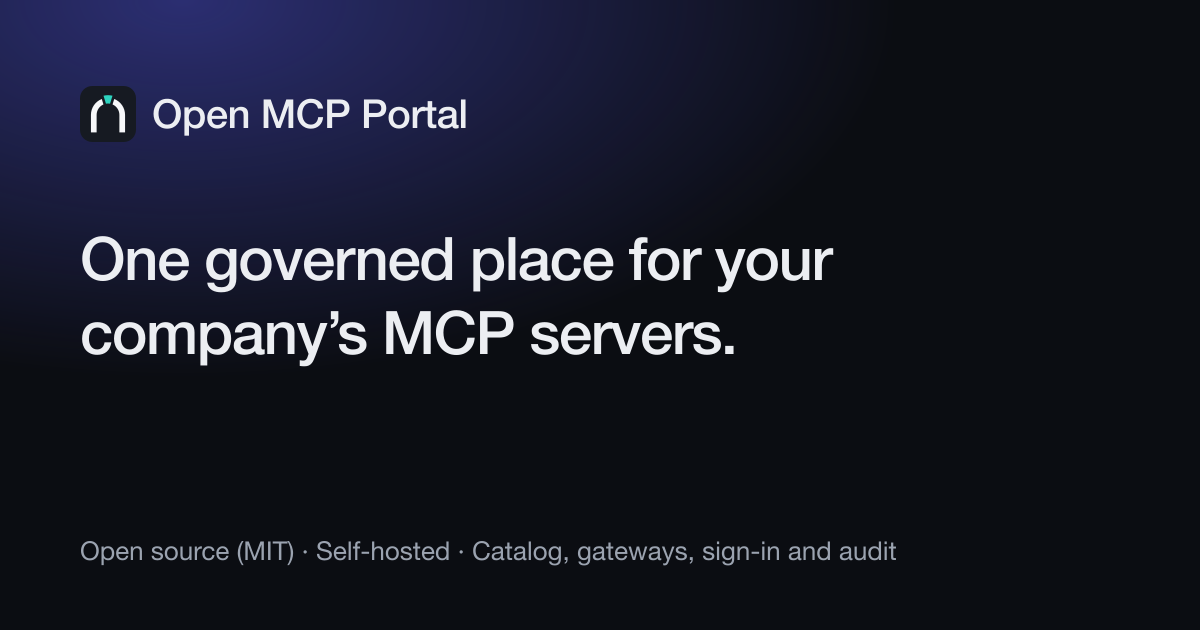
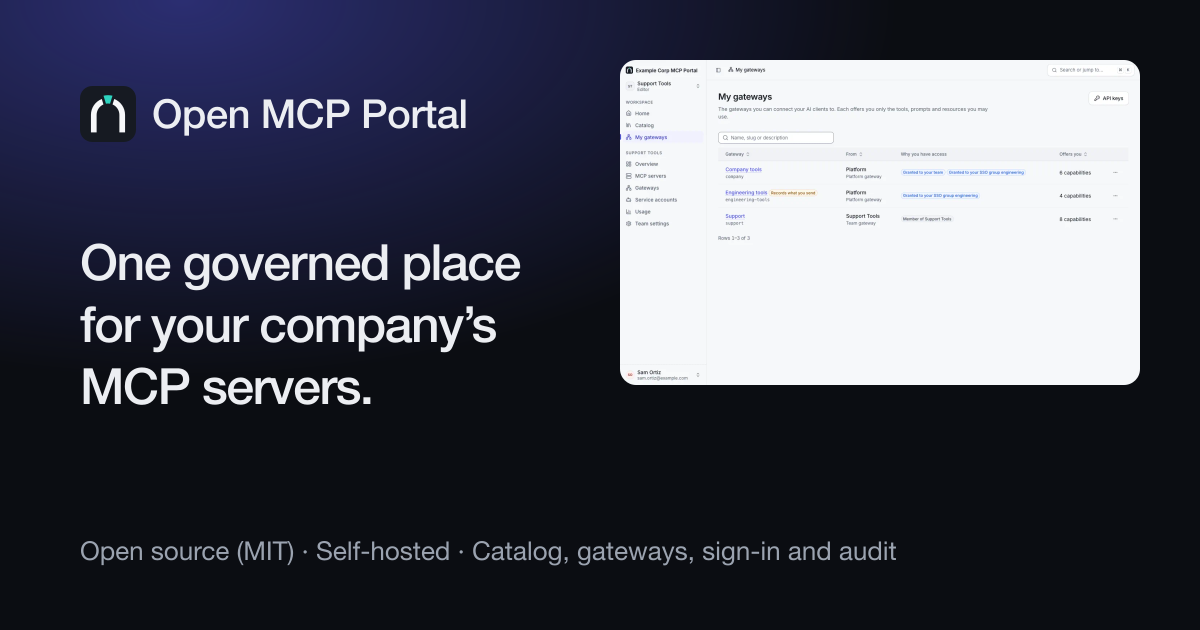
Screenshots, OG card and an up-to-date project status
- All 8 slots filled from the Example Corp capture (omp-assets, product commit d039647); four use a
  docs file or the site's own connect-confirm-more-scopes through "file"; alt text and captions
  checked against the images. npm run og redrew og.png with the my-gateways shot.
- Project status card follows docs/status.md: Claude Code and pi over OAuth and GitHub's hosted MCP
  server end to end are verified; not yet a real Google or Microsoft provider, CI on GitHub's runners
  or a real-cluster smoke test.
- Renamed prefixes: omp_ and omp_sa_ keys, omp:// resources (were omcp_). The example host is
  mcp.example.com, as in the screenshots and the docs. Refresh-token reuse wording matches the
  product (reuse after 30 seconds ends the connection).

Changed region(s): [[0.0617, 0.0905, 0.9558, 0.6635]]

diff --git a/app/page.tsx b/app/page.tsx
@@ -416,7 +416,7 @@ function Features() {
               </>,
               <>
                 <Strong>No clashes:</Strong> tools are exposed as <code>server__tool</code>, and resources under{" "}
-                <code>omcp://server/</code>, so servers can use the same names.
+                <code>omp://server/</code>, so servers can use the same names.
               </>,
               <>
                 <Strong>Checked on every call:</Strong> removing someone from a team or a grant, turning a gateway off
@@ -613,7 +613,7 @@ const cursorSnippet = `{
 }`;
 
 const keySnippet = `curl -X POST ${gatewayUrl} \\
-  -H "Authorization: Bearer omcp_..." \\
+  -H "Authorization: Bearer omp_..." \\
   -H "Content-Type: application/json" \\
   -H "Accept: application/json, text/event-stream" \\
   -d '{"jsonrpc":"2.0","id":1,"method":"tools/list"}'`;
@@ -636,7 +636,7 @@ function Connect() {
           <div className="min-w-0">
             <CodeBlock label="Scripts and agents: a personal or service account key">{keySnippet}</CodeBlock>
             <p className="mt-3 text-sm text-brand-muted">
-              Personal keys start with <code>omcp_</code>, service account keys with <code>omcp_sa_</code>. Both are
+              Personal keys start with <code>omp_</code>, service account keys with <code>omp_sa_</code>. Both are
               shown once. <TextLink href={site.connectUrl}>Connecting clients</TextLink>
             </p>
           </div>
@@ -648,7 +648,7 @@ function Connect() {
               items={[
                 <>It acts as you, on that gateway only: its token is refused by every other gateway.</>,
                 <>It sees the tools you may use there now. Lose access and the next request is refused.</>,
-                <>Access tokens last an hour; the app refreshes them, and signs in again after 30 days unused. A refresh token used twice ends the connection.</>,
+                <>Access tokens last an hour; the app refreshes them, and signs in again after 30 days unused. A refresh token reused after 30 seconds ends the connection.</>,
                 <>Claude (claude.ai and Claude Desktop) connects as a custom connector; for claude.ai the portal must be reachable from the internet.</>,
               ]}
             />
@@ -964,10 +964,14 @@ function OpenSource() {
             </h3>
             <div className="mt-4 space-y-3 leading-relaxed text-brand-muted">
               <p>
-                Everything on this page is built and tested against real PostgreSQL, with fake MCP servers and a fake
-                OAuth provider. It is pre-1.0 software: sign-in with real MCP clients, delegated credentials with a real
-                provider and the GitHub sign-in end to end still need their first full runs, so pilot it before you
-                depend on it.
+                Everything on this page is built and tested against real PostgreSQL. Real clients work: Claude Code and
+                pi have signed in to gateways over OAuth and called tools, and GitHub&apos;s hosted MCP server has run
+                end to end with each person&apos;s own GitHub sign-in.
+              </p>
+              <p>
+                It is pre-1.0 software and hasn&apos;t run in production. Not tried yet: delegated credentials with a
+                real Google or Microsoft provider (only a fake one so far), the CI workflow on GitHub&apos;s runners, and
+                a smoke test on a real Kubernetes cluster. Pilot it before you depend on it.
               </p>
               <p>
                 Not built yet: streaming responses through to the client (calls are buffered, up to 1 MiB), resource

diff --git a/lib/site.ts b/lib/site.ts
@@ -29,8 +29,9 @@ export const site = {
   identityUrl: `${tree}/docs/upstream-identity.md`,
   mailExampleUrl: `${tree}/examples/mail-mcp/README.md`,
   websiteRepoUrl: "https://github.com/ncecere/omp-website",
-  // The example portal used in every snippet on the page.
-  exampleHost: "portal.example.com",
+  // The example portal used in every snippet on the page: the host the screenshots show
+  // (the Example Corp capture instance in omp-assets, and the docs' examples).
+  exampleHost: "mcp.example.com",
   // HTTP header names the portal sends to MCP servers. They are protocol
   // names, unchanged by the product's rename (internal/identity/identity.go);
   // check them against docs/upstream-identity.md when the product changes.

diff --git a/README.md b/README.md
@@ -4,9 +4,9 @@ The landing page for [Open MCP Portal (OMP)](https://github.com/ncecere/open-mcp
 
 It's one long page plus a 404 page, with no pricing, sign-up, forms, cookies, tracking or third-party requests. The text describes Open MCP Portal **v0.1.0** (the current `main` of the product repository, not yet tagged; the repository was called `open-mcp-gateway` before the rename) and is checked against its `SPEC.md`, `docs/decisions.md`, `docs/status.md`, `docs/registry.md`, the "As built" sections of `docs/phase3-gateways.md` to `docs/phase7-upstream-oauth.md`, `docs/upstream-identity.md`, `docs/connect-clients.md`, `docs/deploy.md`, `examples/mail-mcp/README.md`, the `Makefile` and the screen names in `web/src`. Nothing on the page describes a feature that isn't built; planned work is named as planned in the project status card.
 
-`lib/site.ts` holds the version, the release day (`null` until the tag exists; set it when v0.1.0 is tagged, and the footer and sitemap show it), the repository links (they follow `main` until the tag; then point them at `blob/v0.1.0`), the example host (`portal.example.com`) and the HTTP header names the portal sends to MCP servers (`MCP-Gateway-Identity`, `MCP-Gateway-Provider`, `MCP-Gateway-Provider-Token`; protocol names that the product's rename kept).
+`lib/site.ts` holds the version, the release day (`null` until the tag exists; set it when v0.1.0 is tagged, and the footer and sitemap show it), the repository links (they follow `main` until the tag; then point them at `blob/v0.1.0`), the example host (`mcp.example.com`, the host the screenshots and the docs show) and the HTTP header names the portal sends to MCP servers (`MCP-Gateway-Identity`, `MCP-Gateway-Provider`, `MCP-Gateway-Provider-Token`; protocol names that the product's rename kept).
 
-**Naming.** The page leads with "Open MCP Portal" (title, hero, metadata) and uses "OMP" only as a short form after it. The text names no competing products (other MCP gateways, registries, tool platforms or API management products); the MCP clients the portal connects (Claude, Claude Code, VS Code, Cursor) and the services people sign in to (GitHub, Google, Microsoft Entra ID, Atlassian, Slack, GitLab) are named because they are what it connects to. Examples use generic names (`portal.example.com`, Example Corp, a `support` gateway). `scripts/postbuild.mjs` fails the build if a page uses a forbidden name or "OMP" before "Open MCP Portal".
+**Naming.** The page leads with "Open MCP Portal" (title, hero, metadata) and uses "OMP" only as a short form after it. The text names no competing products (other MCP gateways, registries, tool platforms or API management products); the MCP clients the portal connects (Claude, Claude Code, VS Code, Cursor) and the services people sign in to (GitHub, Google, Microsoft Entra ID, Atlassian, Slack, GitLab) are named because they are what it connects to. Examples use generic names (`mcp.example.com`, Example Corp, a `support` gateway). `scripts/postbuild.mjs` fails the build if a page uses a forbidden name or "OMP" before "Open MCP Portal".
 
 ## Stack
 
@@ -44,14 +44,14 @@ The logo's source, exports and usage rules live in `../omp-assets/logo/` (the ma
 
 ## Screenshots
 
-The page has 8 named screenshot slots in its web UI section, listed in `lib/slots.json` with their alt text and captions. A slot without an image shows a clearly marked placeholder with the expected file name. All 8 are placeholders until `../omp-assets/screenshots/` has captures.
+The page has 8 named screenshot slots in its web UI section, listed in `lib/slots.json` with their alt text and captions. A slot without an image shows a clearly marked placeholder with the expected file name. All 8 are filled from the Example Corp capture in `../omp-assets/screenshots/` (Open MCP Portal at commit `d039647`, 2026-10-17; `MANIFEST.md` there). Four slots name a docs file through `"file"` (`server-sign-in` → `add-server-detect`, `gateway-capabilities` → `gateway-capabilities-picker`, `call-detail` → `call-detail-payload`) or one of the website's own (`connect-confirm` → `connect-confirm-more-scopes`).
 
 ```sh
 npm run images   # copy the screenshots that exist into public/images as WebP, record their sizes
 npm run og       # rebuild the Open Graph card and icons
 ```
 
-Commit the results (`public/images/`, `lib/screenshots.json`, `public/og.png`, icons, `lib/mark.json`). Screenshots come from a fictional demo installation (Example Corp) in `../omp-assets/screenshots/`; set `SCREENSHOTS_DIR` to read from another directory. For each slot the script looks for `file` (or the slot's own name) as `.png`, `.webp` or `.jpg` and, if that's missing, the slot's `interimFile`, recording `"interim": true` in `lib/screenshots.json`. When the captures arrive, check each slot's alt text and caption against its image: they were written from the product's docs and source, before any capture existed.
+Commit the results (`public/images/`, `lib/screenshots.json`, `public/og.png`, icons, `lib/mark.json`). Screenshots come from a fictional demo installation (Example Corp) in `../omp-assets/screenshots/`; set `SCREENSHOTS_DIR` to read from another directory. For each slot the script looks for `file` (or the slot's own name) as `.png`, `.webp` or `.jpg` and, if that's missing, the slot's `interimFile`, recording `"interim": true` in `lib/screenshots.json`. After a retake, check each slot's alt text and caption against its image (they were last checked against the 2026-10-17 set).
 
 | Slot | Shows |
 |---|---|
